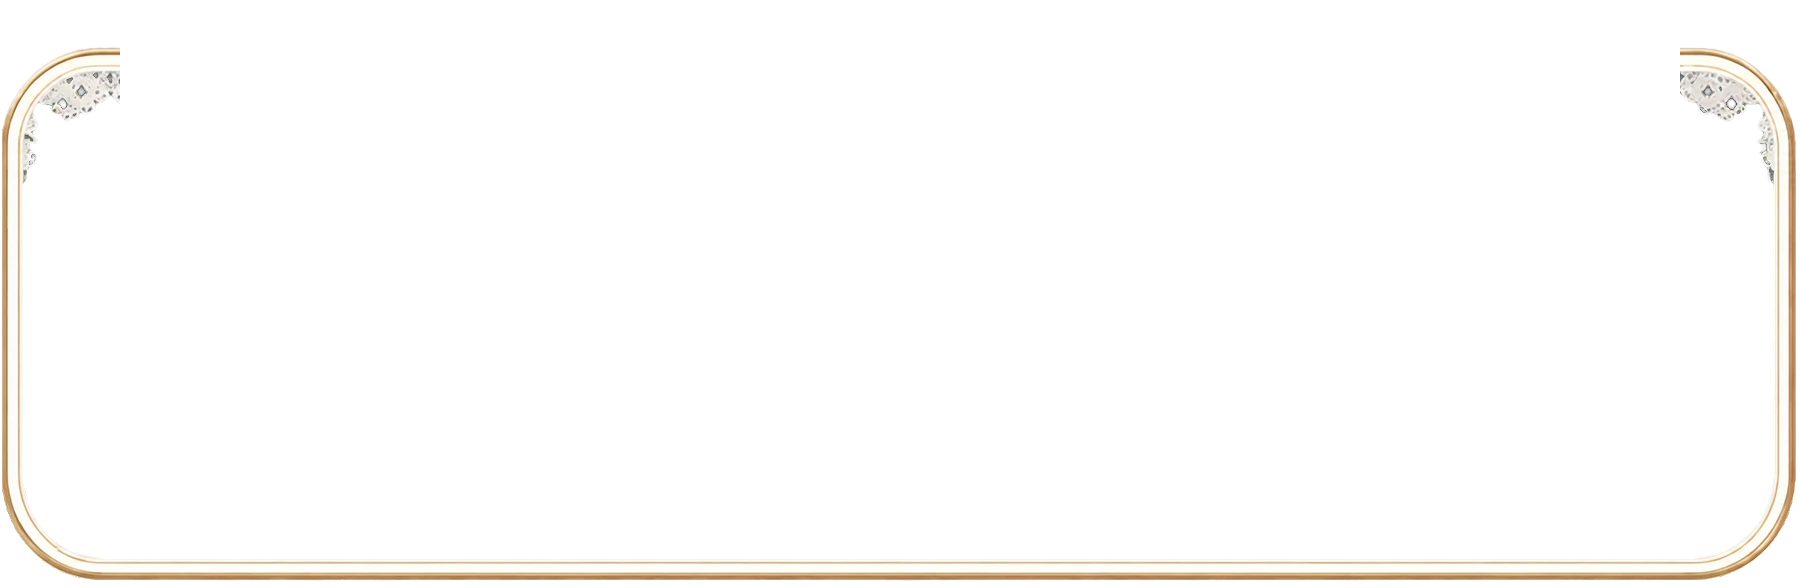
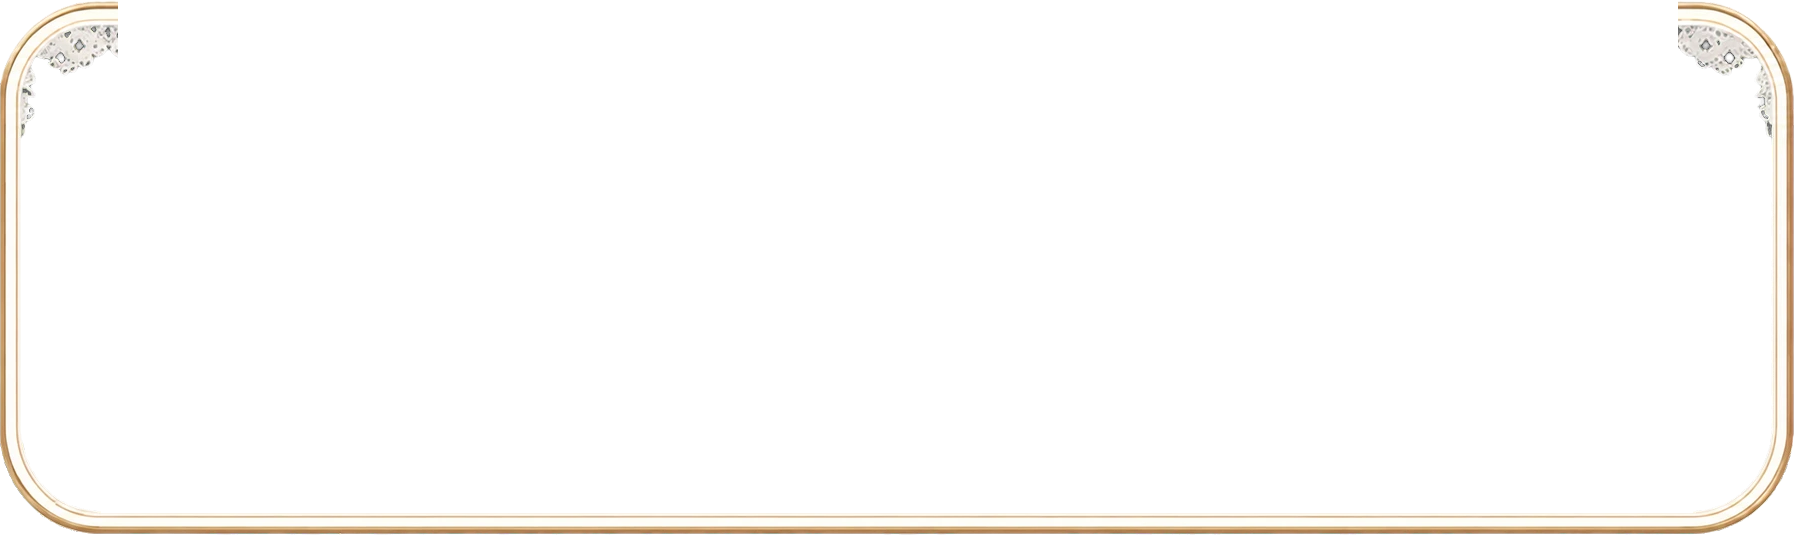
fix(apk v8.6.21): 输入框金框按真实比例重铺 + 侧栏挂帘 + 真机全量注入
* 金框图 composer-frame-shell 原为 1800x588 且四周带透明外边距，按 slice 170/120/115/120 压到 14px 后上边框只剩几像素，表现为镂空与断层；
  现裁掉透明边距（1794x535，无损 webp）并按实测内容厚度重设 slice 74/30/41/26、border 30/14/20（桌面 40/18/26），repeat 改 stretch，四边比例一致才能衔接；
* 上边框加厚并向下盖住（lace 贴 padding-box 顶部从框内沿探出），符合原皮肤上边粗、下方盖的结构；
* 新增侧栏底部 swag 蕾丝挂帘（此前未使用该素材）；
* CI 真机口径改为：打开开关后整页 reload，由 APK 自身注入完整脚本与皮肤（不再只注入皮肤）；
* probe 增加滚动过程 8 次采样 scrollYs/scrollJitter，量化输入框跟随抖动。

history: fix(apk v8.6.20)

Changed region(s): [[0.0, 0.0, 1.0, 1.0]]

diff --git a/android/app/src/main/assets/dse-theme/dse-maid.css b/android/app/src/main/assets/dse-theme/dse-maid.css
@@ -451,38 +451,23 @@ html[data-dse-maid] body .aaff8b8f::before {
   content: "";
   position: absolute;
   box-sizing: border-box;
-  top: -18px; right: -18px; bottom: -18px; left: -18px;
+  top: -40px; right: -18px; bottom: -26px; left: -18px;
   border-style: solid;
-  border-width: 18px;
+  border-width: 40px 18px 26px;
   border-image-source: url("https://appassets.androidplatform.net/assets/dse-theme/img/composer-frame-shell.webp");
-  border-image-slice: 170 120 115 120;
-  border-image-width: 18px;
-  border-image-repeat: round;
-  background-image:
-    url("https://appassets.androidplatform.net/assets/dse-theme/img/composer-lace-tile.png"),
-    url("https://appassets.androidplatform.net/assets/dse-theme/img/ribbon-left-cap.webp"),
-    url("https://appassets.androidplatform.net/assets/dse-theme/img/ribbon-right-cap.webp"),
-    url("https://appassets.androidplatform.net/assets/dse-theme/img/ribbon-left-fill.webp"),
-    url("https://appassets.androidplatform.net/assets/dse-theme/img/ribbon-right-fill.webp");
-  background-position:
-    center top,
-    left 44px top,
-    right 44px top,
-    left 126px top,
-    right 126px top;
-  background-size:
-    56% 18px,
-    84px 26px,
-    84px 26px,
-    max(0px, calc(50% - 152px)) 26px,
-    max(0px, calc(50% - 152px)) 26px;
+  border-image-slice: 74 30 41 26;
+  border-image-width: 40px 18px 26px 18px;
+  border-image-repeat: stretch;
+  background-image: url("https://appassets.androidplatform.net/assets/dse-theme/img/composer-lace-tile.png");
+  background-position: center top;
+  background-size: 58% 20px;
   background-repeat: no-repeat;
-  background-origin: padding-box, border-box, border-box, border-box, border-box;
-  background-clip: padding-box, border-box, border-box, border-box, border-box;
-  opacity: 1;
+  background-origin: padding-box;
+  background-clip: padding-box;
   pointer-events: none;
   z-index: 3;
-  filter: saturate(1.3) contrast(1.1) drop-shadow(0 2px 6px rgba(90, 66, 20, .2));
+  will-change: transform;
+  filter: saturate(1.12) drop-shadow(0 2px 6px rgba(90, 66, 20, .18));
 }
 
 /* 蝴蝶结：绝对居中，压在框顶正中，紧贴边框不留缝 */
@@ -687,21 +672,10 @@ html[data-dse-maid] body #dse-bg-mask {
     background-size: 100px 100px;
   }
   html[data-dse-maid] body .aaff8b8f::before {
-    top: -14px; right: -14px; bottom: -14px; left: -14px;
-    border-width: 14px;
-    border-image-width: 14px;
-    background-size:
-      48% 15px,
-      62px 20px,
-      62px 20px,
-      max(0px, calc(50% - 112px)) 20px,
-      max(0px, calc(50% - 112px)) 20px;
-    background-position:
-      center top,
-      left 30px top,
-      right 30px top,
-      left 94px top,
-      right 94px top;
+    top: -30px; right: -14px; bottom: -20px; left: -14px;
+    border-width: 30px 14px 20px;
+    border-image-width: 30px 14px 20px 14px;
+    background-size: 52% 16px;
   }
   html[data-dse-maid] body .aaff8b8f::after {
     top: -15px;
@@ -917,4 +891,24 @@ html[data-dse-maid] body.dark [class*="assistant-message-main-content"]:not(#__n
     inset 0 0 0 1px rgba(211, 180, 119, .38),
     inset 0 1px 0 rgba(190, 206, 245, .16),
     0 10px 28px rgba(0, 0, 0, .34) !important;
+}
+
+/* ---------- v7：侧栏挂帘（swag）+ 蝴蝶结随上边框上移 ---------- */
+html[data-dse-maid] body .dc04ec1d {
+  position: relative;
+}
+html[data-dse-maid] body .dc04ec1d::after {
+  content: "";
+  position: absolute;
+  left: 0;
+  right: 0;
+  bottom: 0;
+  height: 56px;
+  background: url("https://appassets.androidplatform.net/assets/dse-theme/img/sidebar-swag.webp") center bottom / 100% auto no-repeat;
+  opacity: .88;
+  pointer-events: none;
+  z-index: 2;
+}
+html[data-dse-maid] body .aaff8b8f::after {
+  will-change: transform;
 }

diff --git a/skin/maid-atelier/dse-maid.css b/skin/maid-atelier/dse-maid.css
@@ -451,38 +451,23 @@ html[data-dse-maid] body .aaff8b8f::before {
   content: "";
   position: absolute;
   box-sizing: border-box;
-  top: -18px; right: -18px; bottom: -18px; left: -18px;
+  top: -40px; right: -18px; bottom: -26px; left: -18px;
   border-style: solid;
-  border-width: 18px;
+  border-width: 40px 18px 26px;
   border-image-source: url("https://appassets.androidplatform.net/assets/dse-theme/img/composer-frame-shell.webp");
-  border-image-slice: 170 120 115 120;
-  border-image-width: 18px;
-  border-image-repeat: round;
-  background-image:
-    url("https://appassets.androidplatform.net/assets/dse-theme/img/composer-lace-tile.png"),
-    url("https://appassets.androidplatform.net/assets/dse-theme/img/ribbon-left-cap.webp"),
-    url("https://appassets.androidplatform.net/assets/dse-theme/img/ribbon-right-cap.webp"),
-    url("https://appassets.androidplatform.net/assets/dse-theme/img/ribbon-left-fill.webp"),
-    url("https://appassets.androidplatform.net/assets/dse-theme/img/ribbon-right-fill.webp");
-  background-position:
-    center top,
-    left 44px top,
-    right 44px top,
-    left 126px top,
-    right 126px top;
-  background-size:
-    56% 18px,
-    84px 26px,
-    84px 26px,
-    max(0px, calc(50% - 152px)) 26px,
-    max(0px, calc(50% - 152px)) 26px;
+  border-image-slice: 74 30 41 26;
+  border-image-width: 40px 18px 26px 18px;
+  border-image-repeat: stretch;
+  background-image: url("https://appassets.androidplatform.net/assets/dse-theme/img/composer-lace-tile.png");
+  background-position: center top;
+  background-size: 58% 20px;
   background-repeat: no-repeat;
-  background-origin: padding-box, border-box, border-box, border-box, border-box;
-  background-clip: padding-box, border-box, border-box, border-box, border-box;
-  opacity: 1;
+  background-origin: padding-box;
+  background-clip: padding-box;
   pointer-events: none;
   z-index: 3;
-  filter: saturate(1.3) contrast(1.1) drop-shadow(0 2px 6px rgba(90, 66, 20, .2));
+  will-change: transform;
+  filter: saturate(1.12) drop-shadow(0 2px 6px rgba(90, 66, 20, .18));
 }
 
 /* 蝴蝶结：绝对居中，压在框顶正中，紧贴边框不留缝 */
@@ -687,21 +672,10 @@ html[data-dse-maid] body #dse-bg-mask {
     background-size: 100px 100px;
   }
   html[data-dse-maid] body .aaff8b8f::before {
-    top: -14px; right: -14px; bottom: -14px; left: -14px;
-    border-width: 14px;
-    border-image-width: 14px;
-    background-size:
-      48% 15px,
-      62px 20px,
-      62px 20px,
-      max(0px, calc(50% - 112px)) 20px,
-      max(0px, calc(50% - 112px)) 20px;
-    background-position:
-      center top,
-      left 30px top,
-      right 30px top,
-      left 94px top,
-      right 94px top;
+    top: -30px; right: -14px; bottom: -20px; left: -14px;
+    border-width: 30px 14px 20px;
+    border-image-width: 30px 14px 20px 14px;
+    background-size: 52% 16px;
   }
   html[data-dse-maid] body .aaff8b8f::after {
     top: -15px;
@@ -917,4 +891,24 @@ html[data-dse-maid] body.dark [class*="assistant-message-main-content"]:not(#__n
     inset 0 0 0 1px rgba(211, 180, 119, .38),
     inset 0 1px 0 rgba(190, 206, 245, .16),
     0 10px 28px rgba(0, 0, 0, .34) !important;
+}
+
+/* ---------- v7：侧栏挂帘（swag）+ 蝴蝶结随上边框上移 ---------- */
+html[data-dse-maid] body .dc04ec1d {
+  position: relative;
+}
+html[data-dse-maid] body .dc04ec1d::after {
+  content: "";
+  position: absolute;
+  left: 0;
+  right: 0;
+  bottom: 0;
+  height: 56px;
+  background: url("https://appassets.androidplatform.net/assets/dse-theme/img/sidebar-swag.webp") center bottom / 100% auto no-repeat;
+  opacity: .88;
+  pointer-events: none;
+  z-index: 2;
+}
+html[data-dse-maid] body .aaff8b8f::after {
+  will-change: transform;
 }

diff --git a/tools/visual-shots.py b/tools/visual-shots.py
@@ -111,11 +111,24 @@ def main():
                 if c.eval("!!document.querySelector('.aaff8b8f')") in (True,):
                     break
                 time.sleep(1.5)
+            # 真机口径：打开皮肤开关后整页重载，让 APK 自身注入【完整脚本 + 皮肤】
             c.eval("try{if(window.DSENative&&DSENative.setMaidSkin)DSENative.setMaidSkin(true);}catch(e){}")
-            c.eval("try{if(window.__dseMaidApply)window.__dseMaidApply(true);}catch(e){}")
-            time.sleep(3)
-            c.eval("try{if(window.__dseMaidApply)window.__dseMaidApply(true);}catch(e){}")
+            time.sleep(1.2)
+            c.eval("location.reload()")
+            time.sleep(11)
+            for _ in range(16):
+                if c.eval("!!document.querySelector('.aaff8b8f')") in (True,):
+                    break
+                time.sleep(1.5)
+            c.eval("""(()=>{const btns=[...document.querySelectorAll('button,div[role=button]')];
+              const b=btns.find(x=>/Accept all|Necessary|同意|接受|Accept/i.test(x.innerText||''));
+              if(b)b.click();})()""")
             time.sleep(2)
+            if c.eval("!document.documentElement.hasAttribute('data-dse-maid')") in (True,):
+                print("SKIN NOT AUTO-APPLIED, fallback", flush=True)
+                c.eval("try{if(window.__dseMaidApply)window.__dseMaidApply(true);}catch(e){}")
+                time.sleep(2)
+            time.sleep(1.5)
             ok = c.shot(os.path.join(OUT, name + ".png"))
             diag = c.eval("""(()=>{const l=document.getElementById('dse-maid-link');
               let rules=0; try{for(const s of document.styleSheets){if(s.href&&s.href.indexOf('dse-maid')>=0)rules=s.cssRules.length;}}catch(e){}
@@ -132,7 +145,11 @@ def main():
                 const b=getComputedStyle(card,'::before');out.before={t:b.top,r:b.right,bo:b.bottom,l:b.left,bt:b.borderTopWidth,bimg:(b.borderImageSource||'').slice(0,55)};
                 const a=getComputedStyle(card,'::after');out.after={w:a.width,h:a.height,l:a.left,ml:a.marginLeft};}
               const sc=document.querySelector('.ds-virtual-list');
-              if(card&&sc){const y0=Math.round(card.getBoundingClientRect().y);sc.scrollTop+=500;await new Promise(r=>setTimeout(r,450));const y1=Math.round(card.getBoundingClientRect().y);sc.scrollTop-=500;await new Promise(r=>setTimeout(r,250));out.scrollDelta=y1-y0;out.canScroll=sc.scrollHeight-sc.clientHeight;}
+              if(card&&sc){const y0=Math.round(card.getBoundingClientRect().y);out.scrollY0=y0;
+                const ys=[];for(let k=0;k<8;k++){sc.scrollTop+=90;await new Promise(r=>setTimeout(r,70));ys.push(Math.round(card.getBoundingClientRect().y));}
+                out.scrollYs=ys;out.scrollJitter=Math.max(...ys)-Math.min(...ys);
+                sc.scrollTop-=720;await new Promise(r=>setTimeout(r,250));
+                out.scrollDelta=Math.round(card.getBoundingClientRect().y)-y0;out.canScroll=sc.scrollHeight-sc.clientHeight;}
               else out.scrollDelta='no-scroller';
               const cl=e=>e?(String(e.className||e.tagName)).slice(0,60):'none';
               out.hitLeft=cl(document.elementFromPoint(24, innerHeight-140));
